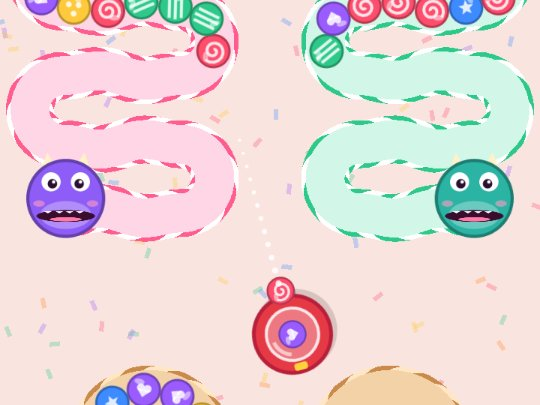
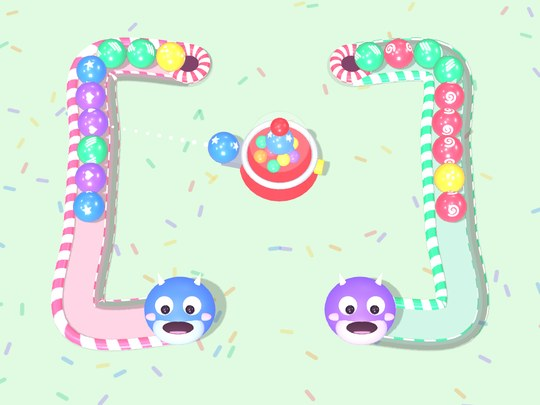
Candy Conga card: 3D thumbnail, three.js tag, new blurb

diff --git a/index.html b/index.html
@@ -48,9 +48,9 @@
     <li>
       <a href="/phaser-candy-conga/" tabindex="-1" aria-hidden="true"><img src="thumbs/phaser-candy-conga.jpg" alt=""></a>
       <div class="info">
-        <span class="tag">Phaser 3</span>
+        <span class="tag">three.js</span>
         <h2>Candy Conga</h2>
-        <p>Candies dance down candy-cane roads to hungry monsters. Fire candies from your gumball machine and pop them in threes, with chain reactions, combo power-ups and jawbreakers. 100+ generated levels with star ratings, plus a Gauntlet mode: every level, 3 stars, as far as you can go.</p>
+        <p>Glossy 3D candies roll down candy-cane roads to hungry monsters. Fire candies from your gumball machine and pop them in threes; set off a chain reaction for a combo and a surprise power-up. Watch out for jawbreakers. 100+ generated levels with star ratings, plus a Gauntlet mode: every level, 3 stars, as far as you can go.</p>
         <div class="links">
           <a class="play" href="/phaser-candy-conga/">Play Candy Conga</a>
           <a href="https://github.com/CraigSubnarine/phaser-candy-conga">Source</a>
